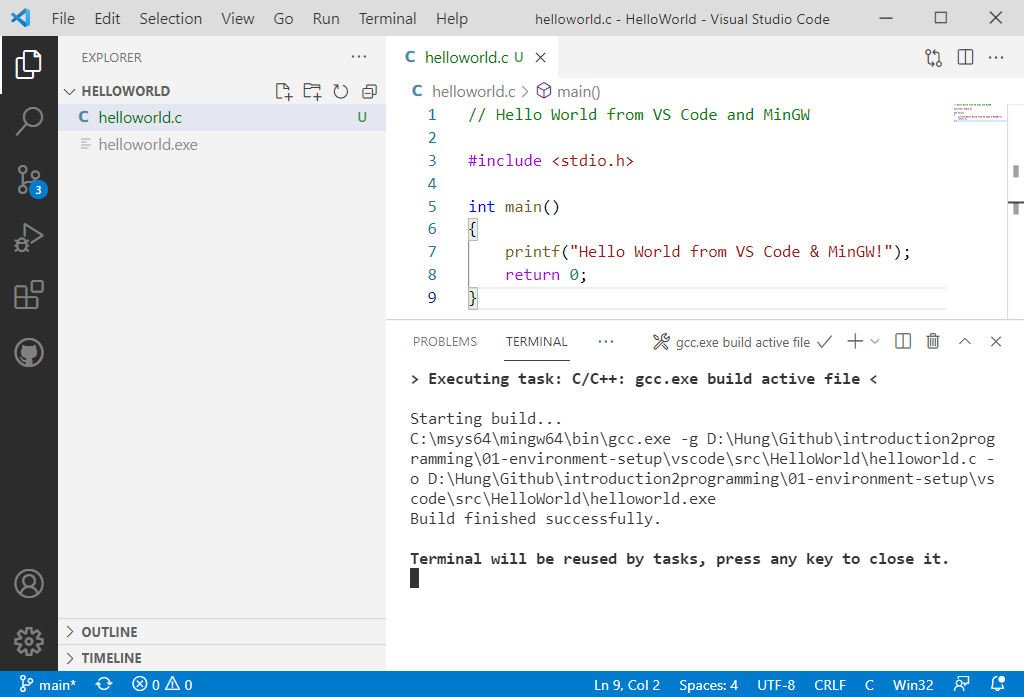
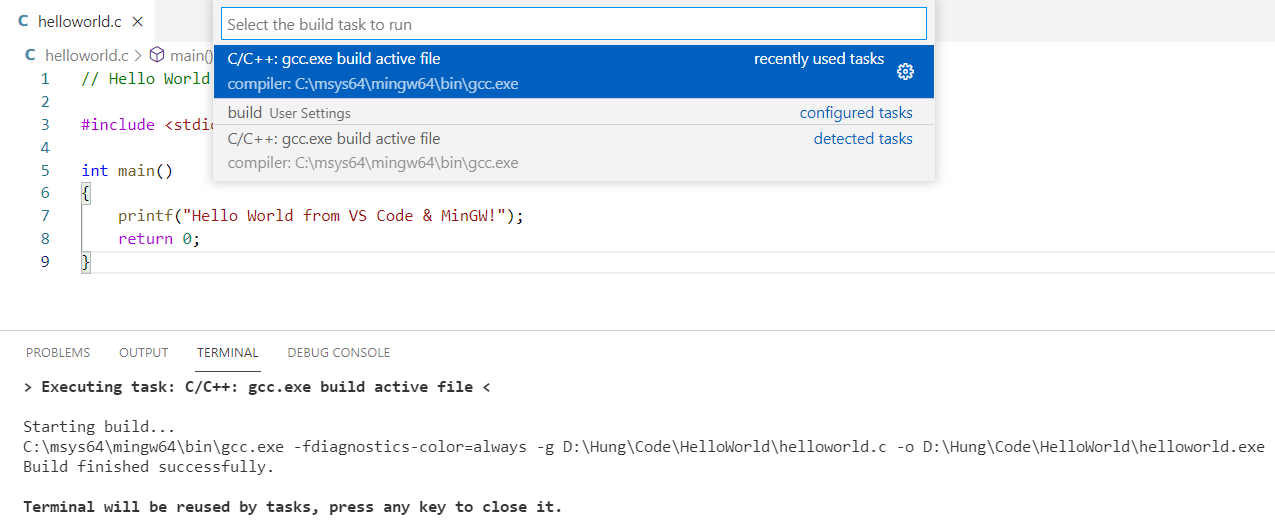
update

diff --git a/01-environment-setup/vscode/README.md b/01-environment-setup/vscode/README.md
@@ -6,8 +6,8 @@
 
 <p>
 <blockquote class="otro-blockquote">
- Make it work, make it right, make it fast.
-  <span> – Kent Beck</span>
+ Everybody should learn to program a computer because it teaches you how to think.
+  <span> – Steve Jobs</span>
 </blockquote>
 </p>
 
@@ -113,14 +113,18 @@ int main()
 
 - **Bước 2**: Biên dịch
 
-Chọn **Terminal->Run Build Task** (Ctrl+Shift+B) để biên dịch.
+Chọn **Terminal->Run Build Task** (Ctrl+Shift+B) để biên dịch. Chọn trình biên dịch là `C:\msys64\mingw64\bin\gcc.exe`.
 <img src="figs/helloworld2.PNG">
 
 Nếu không còn lỗi cú pháp, ở cửa sổ Terminal trình biên dịch báo "Build finished successfully". Nhấn phím bất kỳ để đóng lại.
 
 - **Bước 3**: Chạy chương trình
 
-Mở Terminal và nhập tên file `helloworld` để chạy chương trình:
+Mở Terminal, nhập tên file thực thi `helloworld.exe` để chạy chương trình:
+
+```console
+.\helloworld
+```
 <img src="figs/helloworld3.PNG">
 
 
